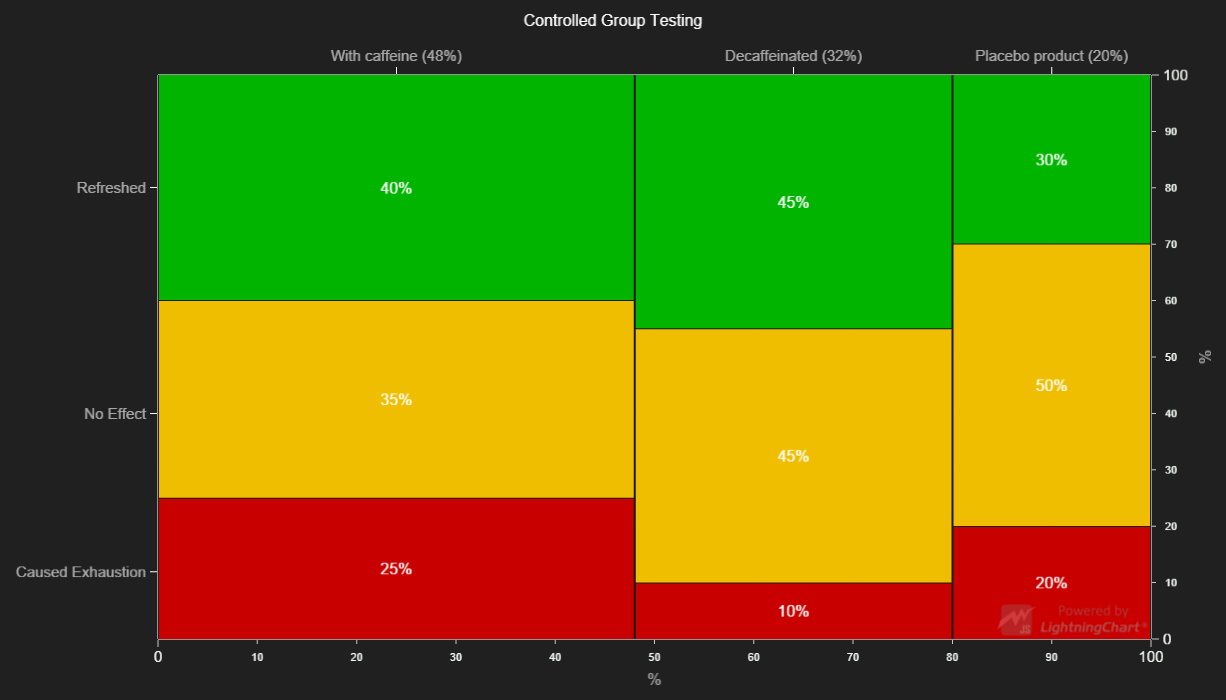
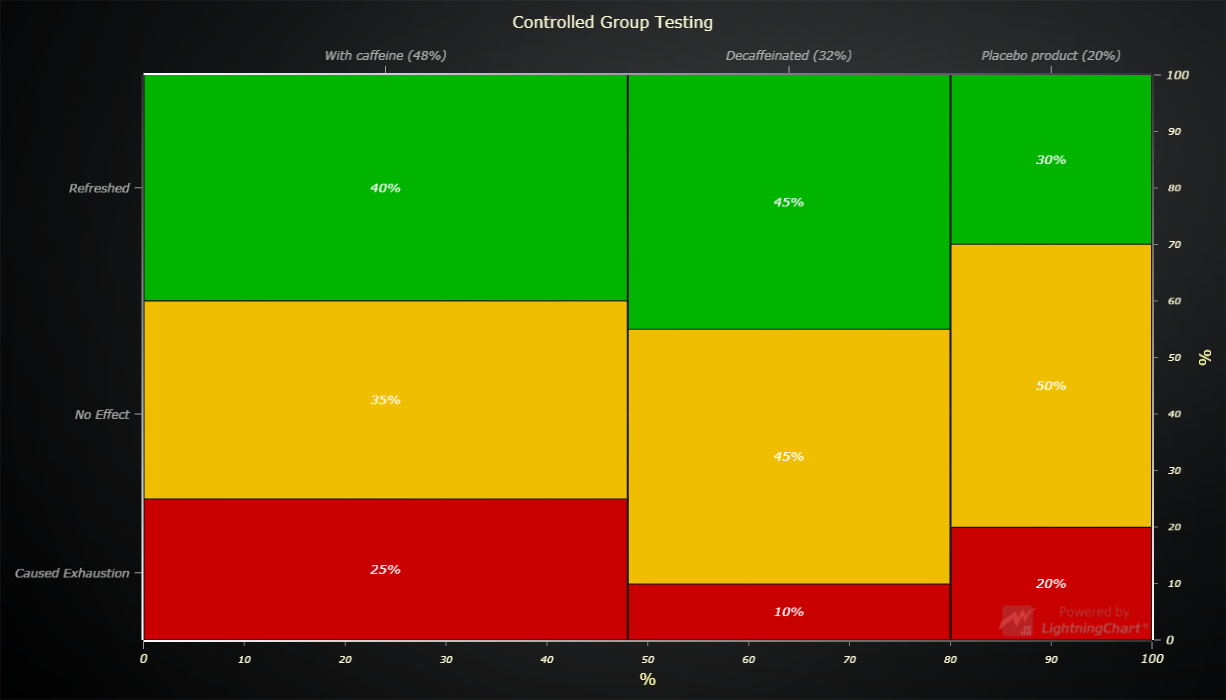
Update LCJS version

diff --git a/src/index.js b/src/index.js
@@ -27,7 +27,7 @@ let mosaicChart
     mosaicChart = () => {
         // Create a XY-Chart and add a RectSeries to it for rendering rectangles.
         const chart = lc.ChartXY({
-            // theme: Themes.dark 
+            // theme: Themes.darkGold 
         })
             .setTitle('Controlled Group Testing')
             .setMouseInteractions(false)
@@ -70,6 +70,10 @@ let mosaicChart
                 .setOrigin(UIOrigins.Center)
                 .setTextFillStyle(new SolidFill().setColor(ColorRGBA(255, 255, 255)))
                 .setMouseInteractions(false)
+                .setBackground((background) => background
+                    .setFillStyle(emptyFill)
+                    .setStrokeStyle(emptyLine)
+                )
             )
 
         const categories = []
@@ -143,7 +147,7 @@ let mosaicChart
         // Method to add a new subCategory to the chart.
         const addSubCategory = () => {
             const subCategory = {
-                fillStyle: Themes.dark.seriesFillStyle,
+                fillStyle: Themes.darkGold.seriesFillStyle,
                 setFillStyle(fillStyle) {
                     this.fillStyle = fillStyle
                     // Refresh the chart.

diff --git a/webpack.config.js b/webpack.config.js
@@ -69,7 +69,8 @@ module.exports = {
         }),
         new CopyWebpackPlugin({
             patterns: [
-                { from: './assets/**/*', to: './examples/assets', flatten: true, noErrorOnMissing: true }
+                { from: './assets/**/*', to: './examples/assets', flatten: true, noErrorOnMissing: true },
+                { from: './node_modules/@arction/lcjs/dist/resources', to: 'resources', noErrorOnMissing: true },
             ]
         })
     ]

diff --git a/README.md b/README.md
@@ -84,14 +84,14 @@ Direct developer email support can be purchased through a [Support Plan][4] or b
 © Arction Ltd 2009-2020. All rights reserved.
 
 
-[XY cartesian chart]: https://www.arction.com/lightningchart-js-api-documentation/v3.0.1/classes/chartxy.html
-[Rectangle series]: https://www.arction.com/lightningchart-js-api-documentation/v3.0.1/classes/rectangleseries.html
-[Axis]: https://www.arction.com/lightningchart-js-api-documentation/v3.0.1/classes/axis.html
-[Solid FillStyle]: https://www.arction.com/lightningchart-js-api-documentation/v3.0.1/classes/solidfill.html
-[Empty FillStyle]: https://www.arction.com/lightningchart-js-api-documentation/v3.0.1/globals.html#emptyfill
-[Solid LineStyle]: https://www.arction.com/lightningchart-js-api-documentation/v3.0.1/classes/solidline.html
-[Empty LineStyle]: https://www.arction.com/lightningchart-js-api-documentation/v3.0.1/globals.html#emptyline
-[Empty TickStyle]: https://www.arction.com/lightningchart-js-api-documentation/v3.0.1/globals.html#emptytick
-[RGBA color factory]: https://www.arction.com/lightningchart-js-api-documentation/v3.0.1/globals.html#colorrgba
-[UI position origins]: https://www.arction.com/lightningchart-js-api-documentation/v3.0.1/globals.html#uiorigins
+[XY cartesian chart]: https://www.arction.com/lightningchart-js-api-documentation/v3.1.0/classes/chartxy.html
+[Rectangle series]: https://www.arction.com/lightningchart-js-api-documentation/v3.1.0/classes/rectangleseries.html
+[Axis]: https://www.arction.com/lightningchart-js-api-documentation/v3.1.0/classes/axis.html
+[Solid FillStyle]: https://www.arction.com/lightningchart-js-api-documentation/v3.1.0/classes/solidfill.html
+[Empty FillStyle]: https://www.arction.com/lightningchart-js-api-documentation/v3.1.0/globals.html#emptyfill
+[Solid LineStyle]: https://www.arction.com/lightningchart-js-api-documentation/v3.1.0/classes/solidline.html
+[Empty LineStyle]: https://www.arction.com/lightningchart-js-api-documentation/v3.1.0/globals.html#emptyline
+[Empty TickStyle]: https://www.arction.com/lightningchart-js-api-documentation/v3.1.0/globals.html#emptytick
+[RGBA color factory]: https://www.arction.com/lightningchart-js-api-documentation/v3.1.0/globals.html#colorrgba
+[UI position origins]: https://www.arction.com/lightningchart-js-api-documentation/v3.1.0/globals.html#uiorigins
 
